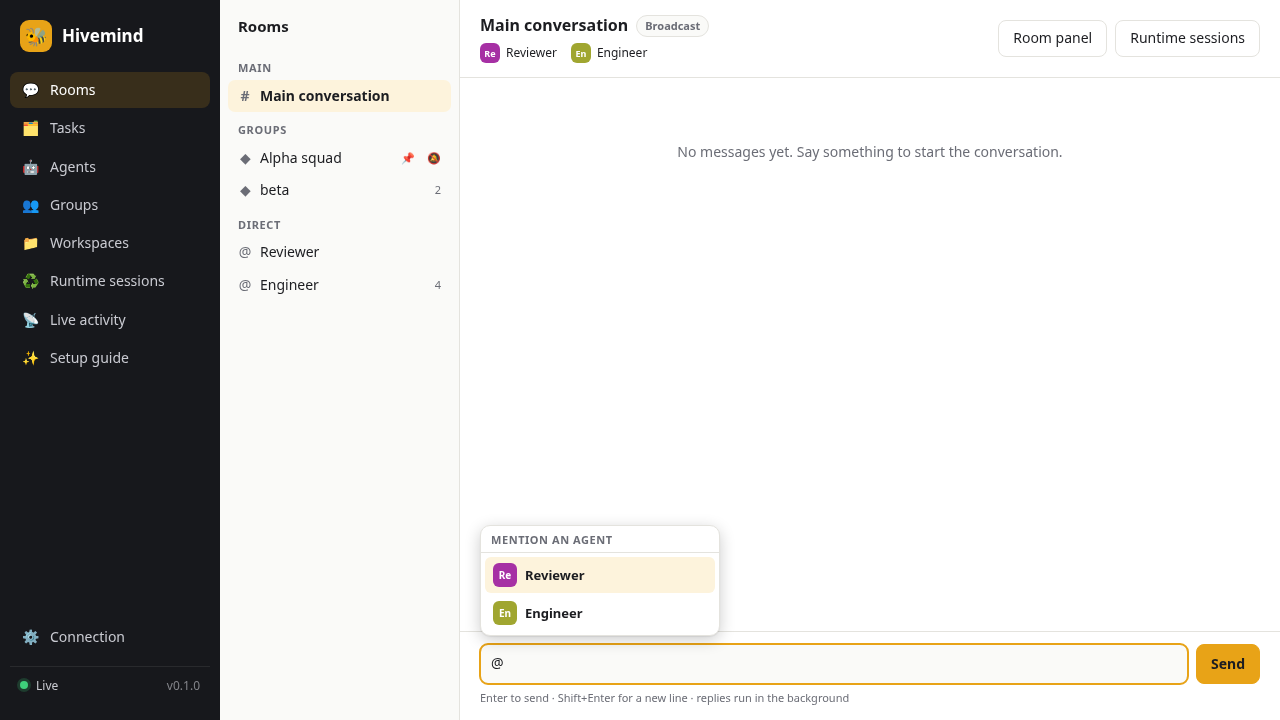
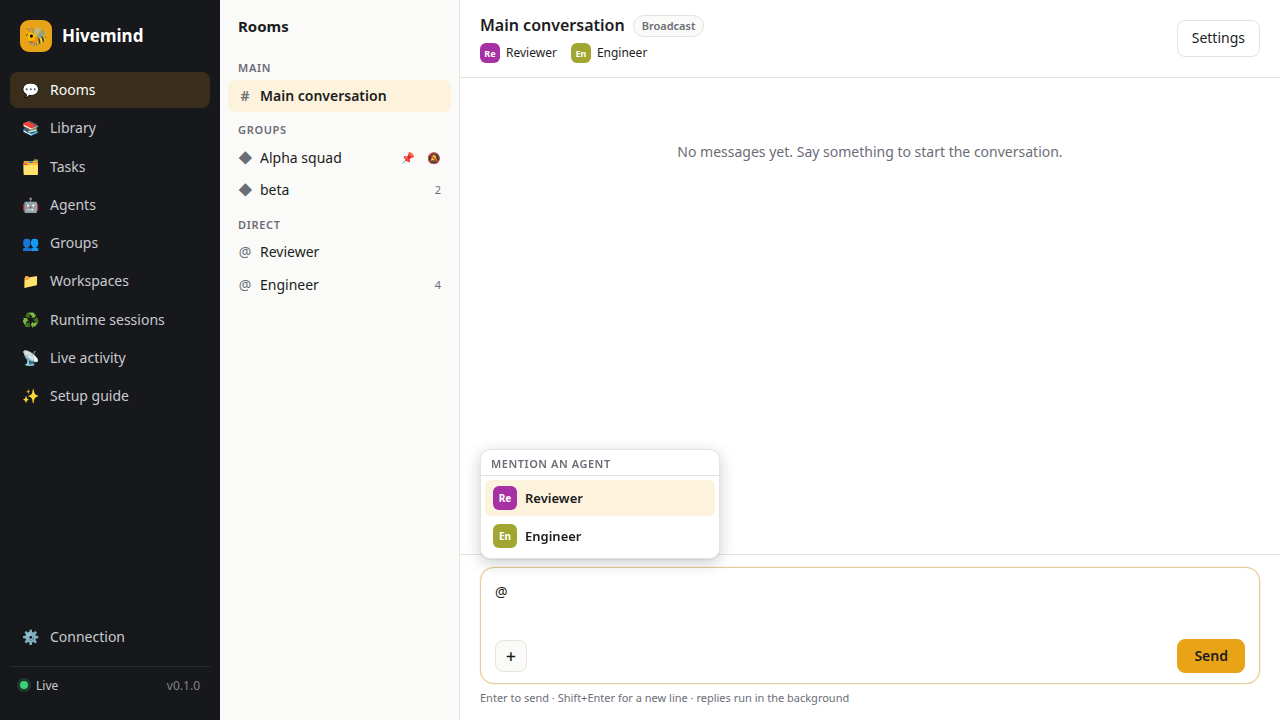
Inherit group follow-up budget in threads and validate room settings

diff --git a/frontend/src/views/RoomPanel.tsx b/frontend/src/views/RoomPanel.tsx
@@ -374,7 +374,7 @@ function Settings({ roomId, onChanged }: { roomId: string; onChanged: () => void
       <ErrorNote error={action.error} />
       {saved && !dirty && <div className="ok-note" role="status">Settings saved.</div>}
       <div className="row">
-        <button className="primary" type="submit" disabled={!dirty || action.busy}>
+        <button className="primary" type="submit" disabled={!dirty || action.busy || !followUpsValid(draft.followUps)}>
           Save settings
         </button>
         <button type="button" className="ghost" disabled={!dirty || action.busy} onClick={() => (setDraft(fromServer(server)), action.setError(null))}>

diff --git a/src/api/routes.rs b/src/api/routes.rs
@@ -1388,15 +1388,55 @@ mod tests {
         let (_, _, shown) = request(app.clone(), "GET", url).await;
         assert!(shown["settings"]["follow_up_limit"].is_null());
         assert!(shown["settings"]["default_follow_up_limit"].is_number());
-        for (value, expected) in [
-            (json!(7), json!(7)),
-            (json!("unlimited"), json!("unlimited")),
-            (json!(null), json!(null)),
+        use crate::memory::{ArchiveParticipant, ArchivedMessage, ArchivedTurn, Caller};
+        test_core
+            .core
+            .memory()
+            .append_archive_turn(
+                &Caller::trusted_user("test"),
+                ArchivedTurn {
+                    id: "t-crew".into(),
+                    room_id: "group-crew".into(),
+                    started_at: 1,
+                    completed_at: Some(2),
+                    metadata: json!({}),
+                    participants: vec![ArchiveParticipant {
+                        participant_id: "Engineer".into(),
+                        role: None,
+                    }],
+                    messages: vec![ArchivedMessage {
+                        id: "m-crew".into(),
+                        room_id: "group-crew".into(),
+                        turn_id: "t-crew".into(),
+                        speaker: "Engineer".into(),
+                        content: "hello".into(),
+                        created_at: 1,
+                    }],
+                },
+            )
+            .unwrap();
+        let (status, created) = request_json(
+            app.clone(),
+            "POST",
+            "/api/v1/rooms/group-crew/threads",
+            json!({"anchor_message_id":"m-crew","name":"Discussion"}),
+        )
+        .await;
+        assert_eq!(status, StatusCode::CREATED);
+        let thread_id = created["thread"]["id"].as_str().unwrap();
+        let default_limit = test_core.core.config().conversation.mention_limit;
+
+        for (value, expected, expected_budget) in [
+            (json!(7), json!(7), 7),
+            (json!("unlimited"), json!("unlimited"), crate::conversation::UNLIMITED_FOLLOW_UP_CEILING),
+            (json!(null), json!(null), default_limit),
         ] {
             let (status, body) =
                 request_json(app.clone(), "PATCH", url, json!({"follow_up_limit": value})).await;
             assert_eq!(status, StatusCode::OK, "{body}");
             assert_eq!(body["settings"]["follow_up_limit"], expected);
+            assert_eq!(test_core.core.conversation().follow_up_budget("group-crew"), expected_budget);
+            assert_eq!(test_core.core.conversation().follow_up_budget(thread_id), expected_budget);
         }
         for bad in [json!(-1), json!(65), json!("lots"), json!(1.5)] {
             let (status, _) =

diff --git a/src/conversation/coordinator.rs b/src/conversation/coordinator.rs
@@ -199,14 +199,23 @@ impl ConversationCoordinator {
     pub fn set_access(&self, policy: Arc<crate::access::AccessPolicy>) {
         let _ = self.access.set(policy);
     }
-    /// Extra mention-triggered replies a Discussion turn may add. Set once at startup.
     /// Per-room overrides of the follow-up budget. Set once at startup.
     pub fn set_follow_up_resolver(&self, resolver: FollowUpResolver) {
         let _ = self.follow_up_override.set(resolver);
     }
 
+    /// Extra mention-triggered replies a Discussion turn may add. Set once at startup.
     pub fn set_mention_limit(&self, limit: usize) {
         let _ = self.mention_limit.set(limit);
+    }
+
+    /// Effective follow-up budget for a room: per-room override if set, else global mention limit.
+    pub fn follow_up_budget(&self, room: &str) -> usize {
+        self.follow_up_override
+            .get()
+            .and_then(|resolve| resolve(room))
+            .map(FollowUpLimit::budget)
+            .unwrap_or_else(|| self.mention_limit.get().copied().unwrap_or(0))
     }
     /// The shared memory service this coordinator executes tool calls against.
     #[cfg(test)]
@@ -477,12 +486,7 @@ impl ConversationCoordinator {
                 // follow up or answer PASS, until all of them pass in a row. Mention and
                 // floor replies share one budget so the exchange always ends.
                 let mut queue: std::collections::VecDeque<usize> = (0..members.len()).collect();
-                let mut extra = self
-                    .follow_up_override
-                    .get()
-                    .and_then(|resolve| resolve(room))
-                    .map(FollowUpLimit::budget)
-                    .unwrap_or_else(|| self.mention_limit.get().copied().unwrap_or(0));
+                let mut extra = self.follow_up_budget(room);
                 let mut last_speaker = None;
                 let mut passes = 0;
                 loop {

diff --git a/src/conversation/tests.rs b/src/conversation/tests.rs
@@ -2908,6 +2908,40 @@ async fn tagged_member_always_answers_or_says_it_cannot() {
     assert_eq!(event.speaker, "A");
     assert!(event.error);
 }
+#[tokio::test]
+async fn multiple_tagged_members_each_say_they_cannot_reply_when_limit_is_zero() {
+    let (_path, coord) = fixture();
+    coord.set_mention_limit(0);
+    let members: Vec<Participant> = ["A", "B", "C"].iter().map(|n| member(n)).collect();
+    let out = coord
+        .turn(TurnRequest {
+            room: "multi-tag-room",
+            room_name: "Multi tag room",
+            group_id: "tag-group",
+            mode: ConversationMode::Discussion,
+            members: &members,
+            input: "go",
+            invoker: scripted(&["hi", "hello", "asking @A and @B for help"]),
+        })
+        .await
+        .unwrap();
+    assert_eq!(out.len(), 5);
+    assert_eq!(out[0].name, "A");
+    assert_eq!(out[1].name, "B");
+    assert_eq!(out[2].name, "C");
+    assert_eq!(out[3].name, "A");
+    assert!(out[3].result.as_ref().unwrap_err().contains("tagged by C but could not reply"));
+    assert_eq!(out[4].name, "B");
+    assert!(out[4].result.as_ref().unwrap_err().contains("tagged by C but could not reply"));
+    let history = coord.room_history("multi-tag-room").unwrap();
+    // 1 user input message + 5 replies/notices
+    assert_eq!(history.events.len(), 6);
+    assert_eq!(history.events[0].speaker, "user");
+    assert_eq!(history.events[4].speaker, "A");
+    assert!(history.events[4].error);
+    assert_eq!(history.events[5].speaker, "B");
+    assert!(history.events[5].error);
+}
 
 #[tokio::test]
 async fn open_floor_continues_a_debate_without_mentions_until_everyone_passes() {

diff --git a/src/core.rs b/src/core.rs
@@ -224,8 +224,25 @@ impl HivemindCore {
         ));
         {
             let execution = execution.clone();
+            let memory = memory.clone();
             conversation.set_follow_up_resolver(Arc::new(move |room| {
-                match execution.room_settings(room).ok()?.follow_up_limit? {
+                let limit = execution
+                    .room_settings(room)
+                    .ok()
+                    .and_then(|s| s.follow_up_limit)
+                    .or_else(|| {
+                        if room.starts_with("thread-") {
+                            let caller = crate::memory::Caller::trusted_user("core");
+                            let thread = memory.thread(&caller, room).ok()??;
+                            execution
+                                .room_settings(&thread.parent_room_id)
+                                .ok()
+                                .and_then(|s| s.follow_up_limit)
+                        } else {
+                            None
+                        }
+                    })?;
+                match limit {
                     n if n < 0 => Some(crate::conversation::FollowUpLimit::Unlimited),
                     n => Some(crate::conversation::FollowUpLimit::Limited(n as usize)),
                 }
